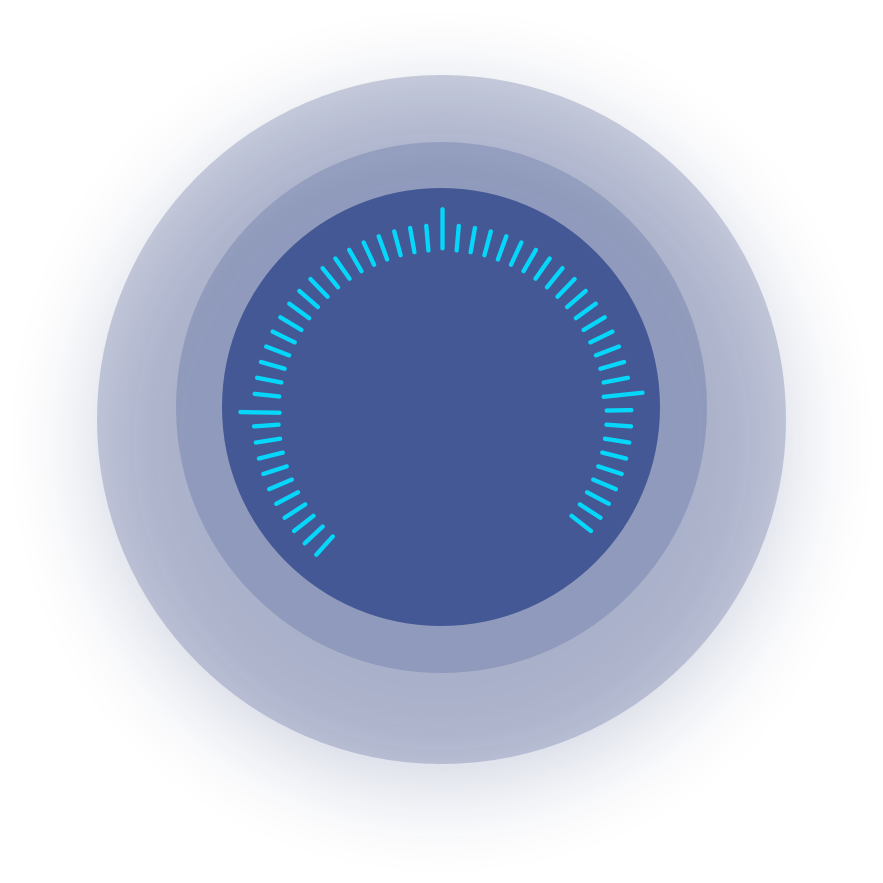
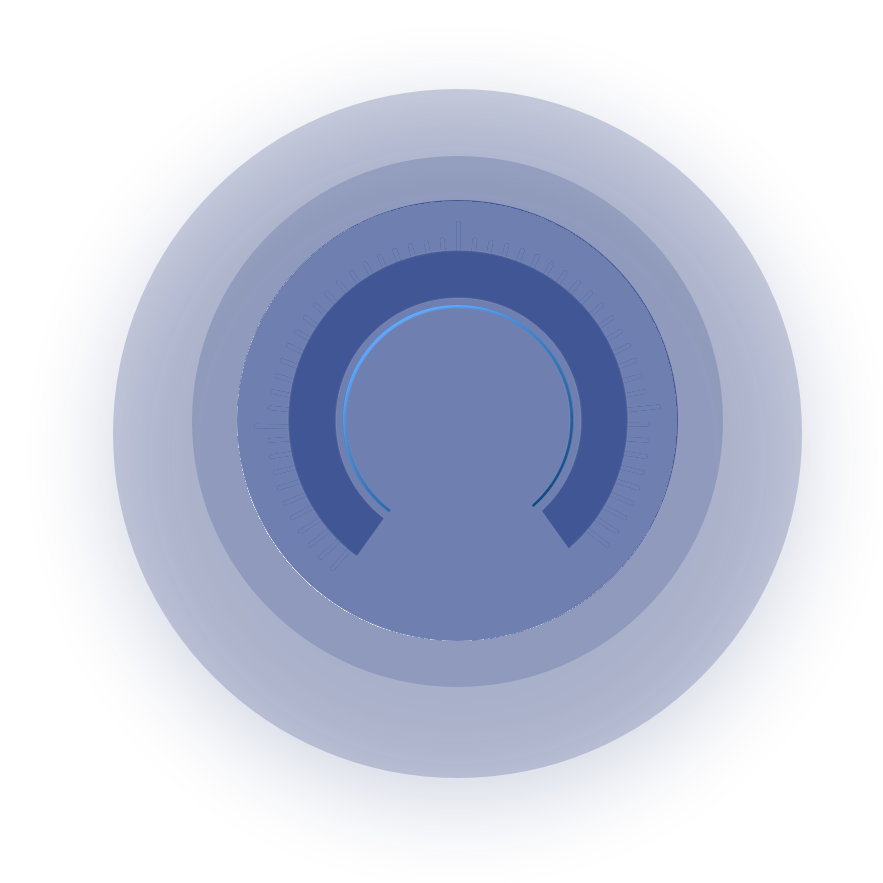
add

diff --git a/src/components/index.vue b/src/components/index.vue
@@ -13,17 +13,12 @@
       </div>
       <div class="content">
           <div class="centre">
-              <div id="chartCenter" style="width: 1.9rem;height: 1.9rem;margin-top: 2.25rem;margin-left:2.51rem;float: left;"></div>
+              <div id="chartCenter" style="width: 3.2rem;height: 3.2rem;margin-top: 1.84rem;margin-left:2rem;float: left;"></div>
               <div  v-if="charData">
-                   <span style="position: absolute;font-size: 0.2rem;top: 2.69rem;left: 2.95rem;">本周已完成</span>
-                   <span style="position: absolute;font-size: 0.2rem;top: 4.3rem;left: 2.8rem;">周计划 :</span>
-                   <span style="font-size: 0.64rem;;top: 3.1rem;left: 2.9rem;position: absolute;">{{charData.allWeekPlanMap.finished}}</span>
-                   <span style="position: absolute;font-size: 0.3rem;top: 4.21rem;left: 3.6rem;">{{charData.allWeekPlanMap.plan}}</span>
-                   <span style="position: absolute;top: 3.9rem;left: 2.6rem;transform:rotate(50deg);">0</span>
-                   <span style="position: absolute;top: 3.15rem;left: 2.2rem;transform:rotate(270deg);">200</span>
-                   <span style="position: absolute;top: 2rem;left: 3.32rem;">400</span>
-                   <span style="position: absolute;top: 3.15rem;left: 4.4rem;transform:rotate(90deg);">600</span>
-                   <span style="position: absolute;top: 3.9rem;left: 4.16rem;transform:rotate(120deg);">800</span>
+                   <span style="position: absolute;font-size: 0.25rem;top: 2.75rem;left: 3rem;">本周已完成</span>
+                   <span style="position: absolute;font-size: 0.2rem;top: 4.6rem;left:3rem;">周计划 :</span>
+                   <span style="font-size: 0.64rem;;top: 3.1rem;left: 3.4rem;position: absolute;">{{charData.allWeekPlanMap.finished}}</span>
+                   <span style="position: absolute;font-size: 0.3rem;top: 4.54rem;left: 3.8rem;">{{charData.allWeekPlanMap.plan}}</span>
               </div>
           </div>
           <div>
@@ -284,16 +279,31 @@ export default {
               let centerChart1 = this.$echarts.init(document.getElementById('centerChart1'))
               let centerChart2 = this.$echarts.init(document.getElementById('centerChart2'))
               let chartCenter = this.$echarts.init(document.getElementById('chartCenter'))
+
+              // let x = self.charData.allWeekPlanMap.finished
+              // let y = self.charData.allWeekPlanMap.plan - self.charData.allWeekPlanMap.finished
+              if(self.charData.allWeekPlanMap.plan == 0){
+                  var x = 0
+                  var y = 10
+                  var z = 10
+              }else{
+                  var x = self.charData.allWeekPlanMap.finished
+                  var y = self.charData.allWeekPlanMap.plan - self.charData.allWeekPlanMap.finished
+                  var z = 30*(x + y)/106
+
+              }
               chartCenter.setOption({
                   series: [
                             {
                                 type:'pie',
-                                radius: ['90%', '99%'],
+                                radius: ['72%', '99%'],
                                 hoverOffset: 1,
+                                 startAngle:233,
                                 labelLine: {normal: {show: false}},
                                 data:[
-                                    {value:self.charData.allWeekPlanMap.finished, name:'已完成',itemStyle:{color:'#62ABFF'}},
-                                    {value:self.charData.allWeekPlanMap.plan - self.charData.allWeekPlanMap.finished, name:'未完成',itemStyle:{color:'#11276C'}},
+                                    {value:x, name:'',itemStyle:{color:'#62ABFF'}},
+                                    {value:y, name:'',itemStyle:{color:'rgba(0,0,0,0)'}},
+                                    {value:z, name:'',itemStyle:{color:'rgba(0,0,0,0)'}},
                                 ]
                             }
                       ]
